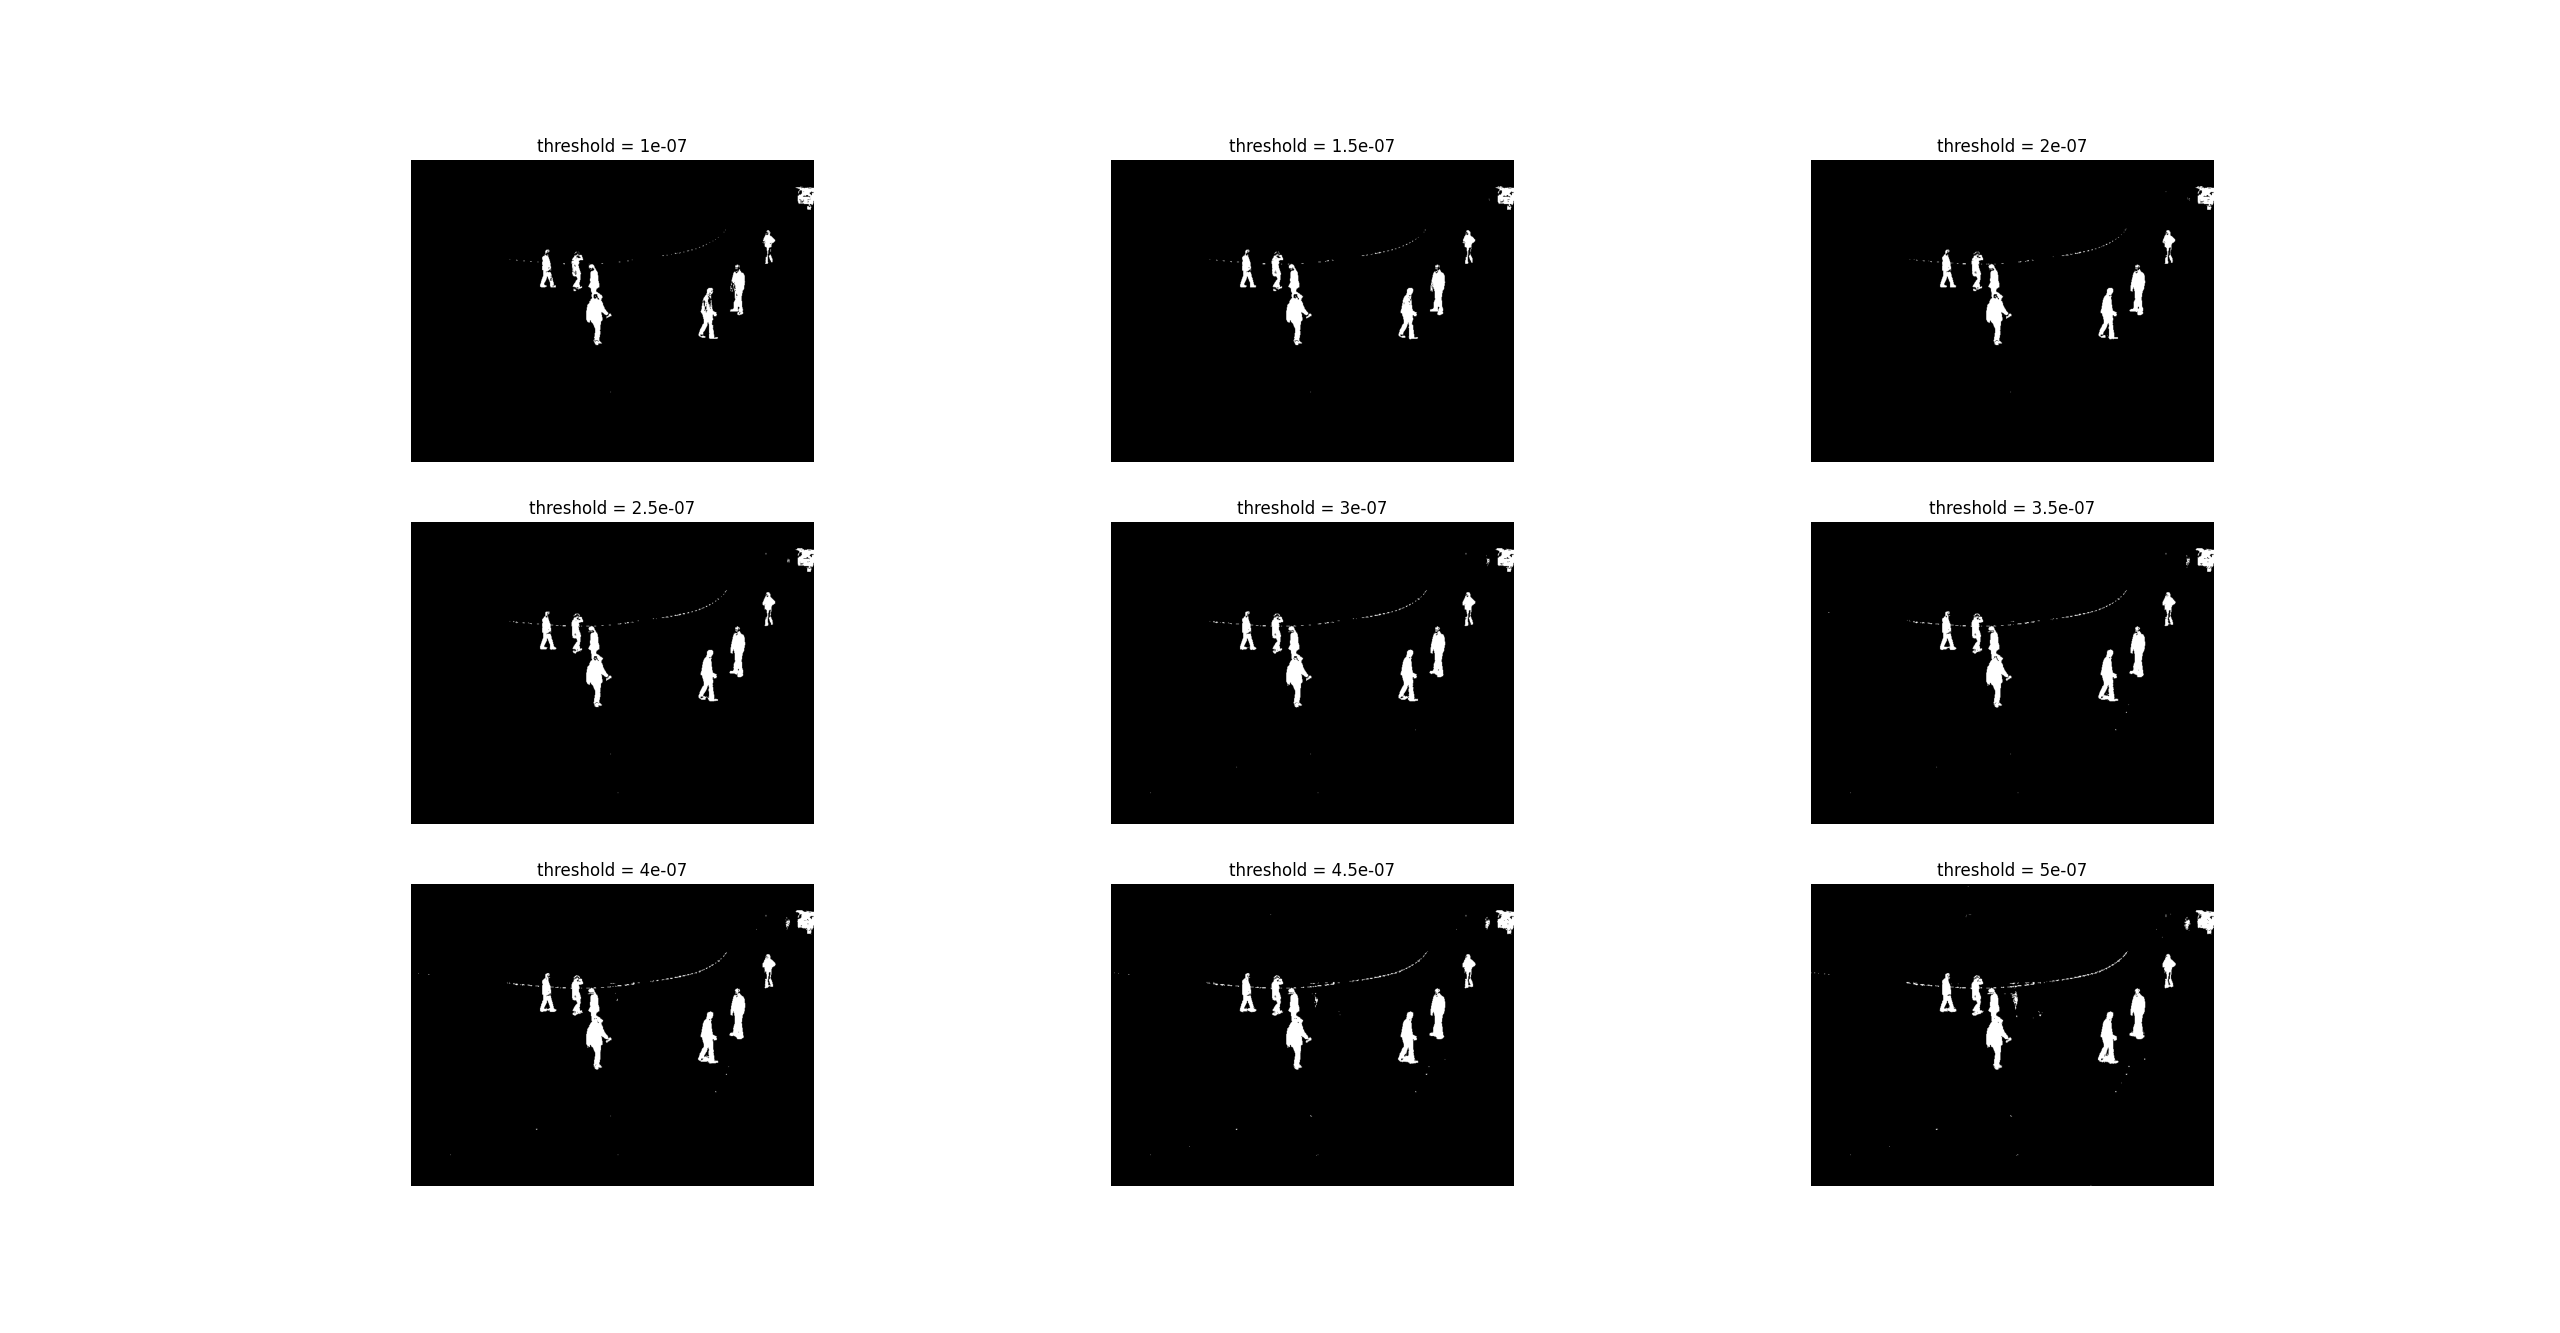
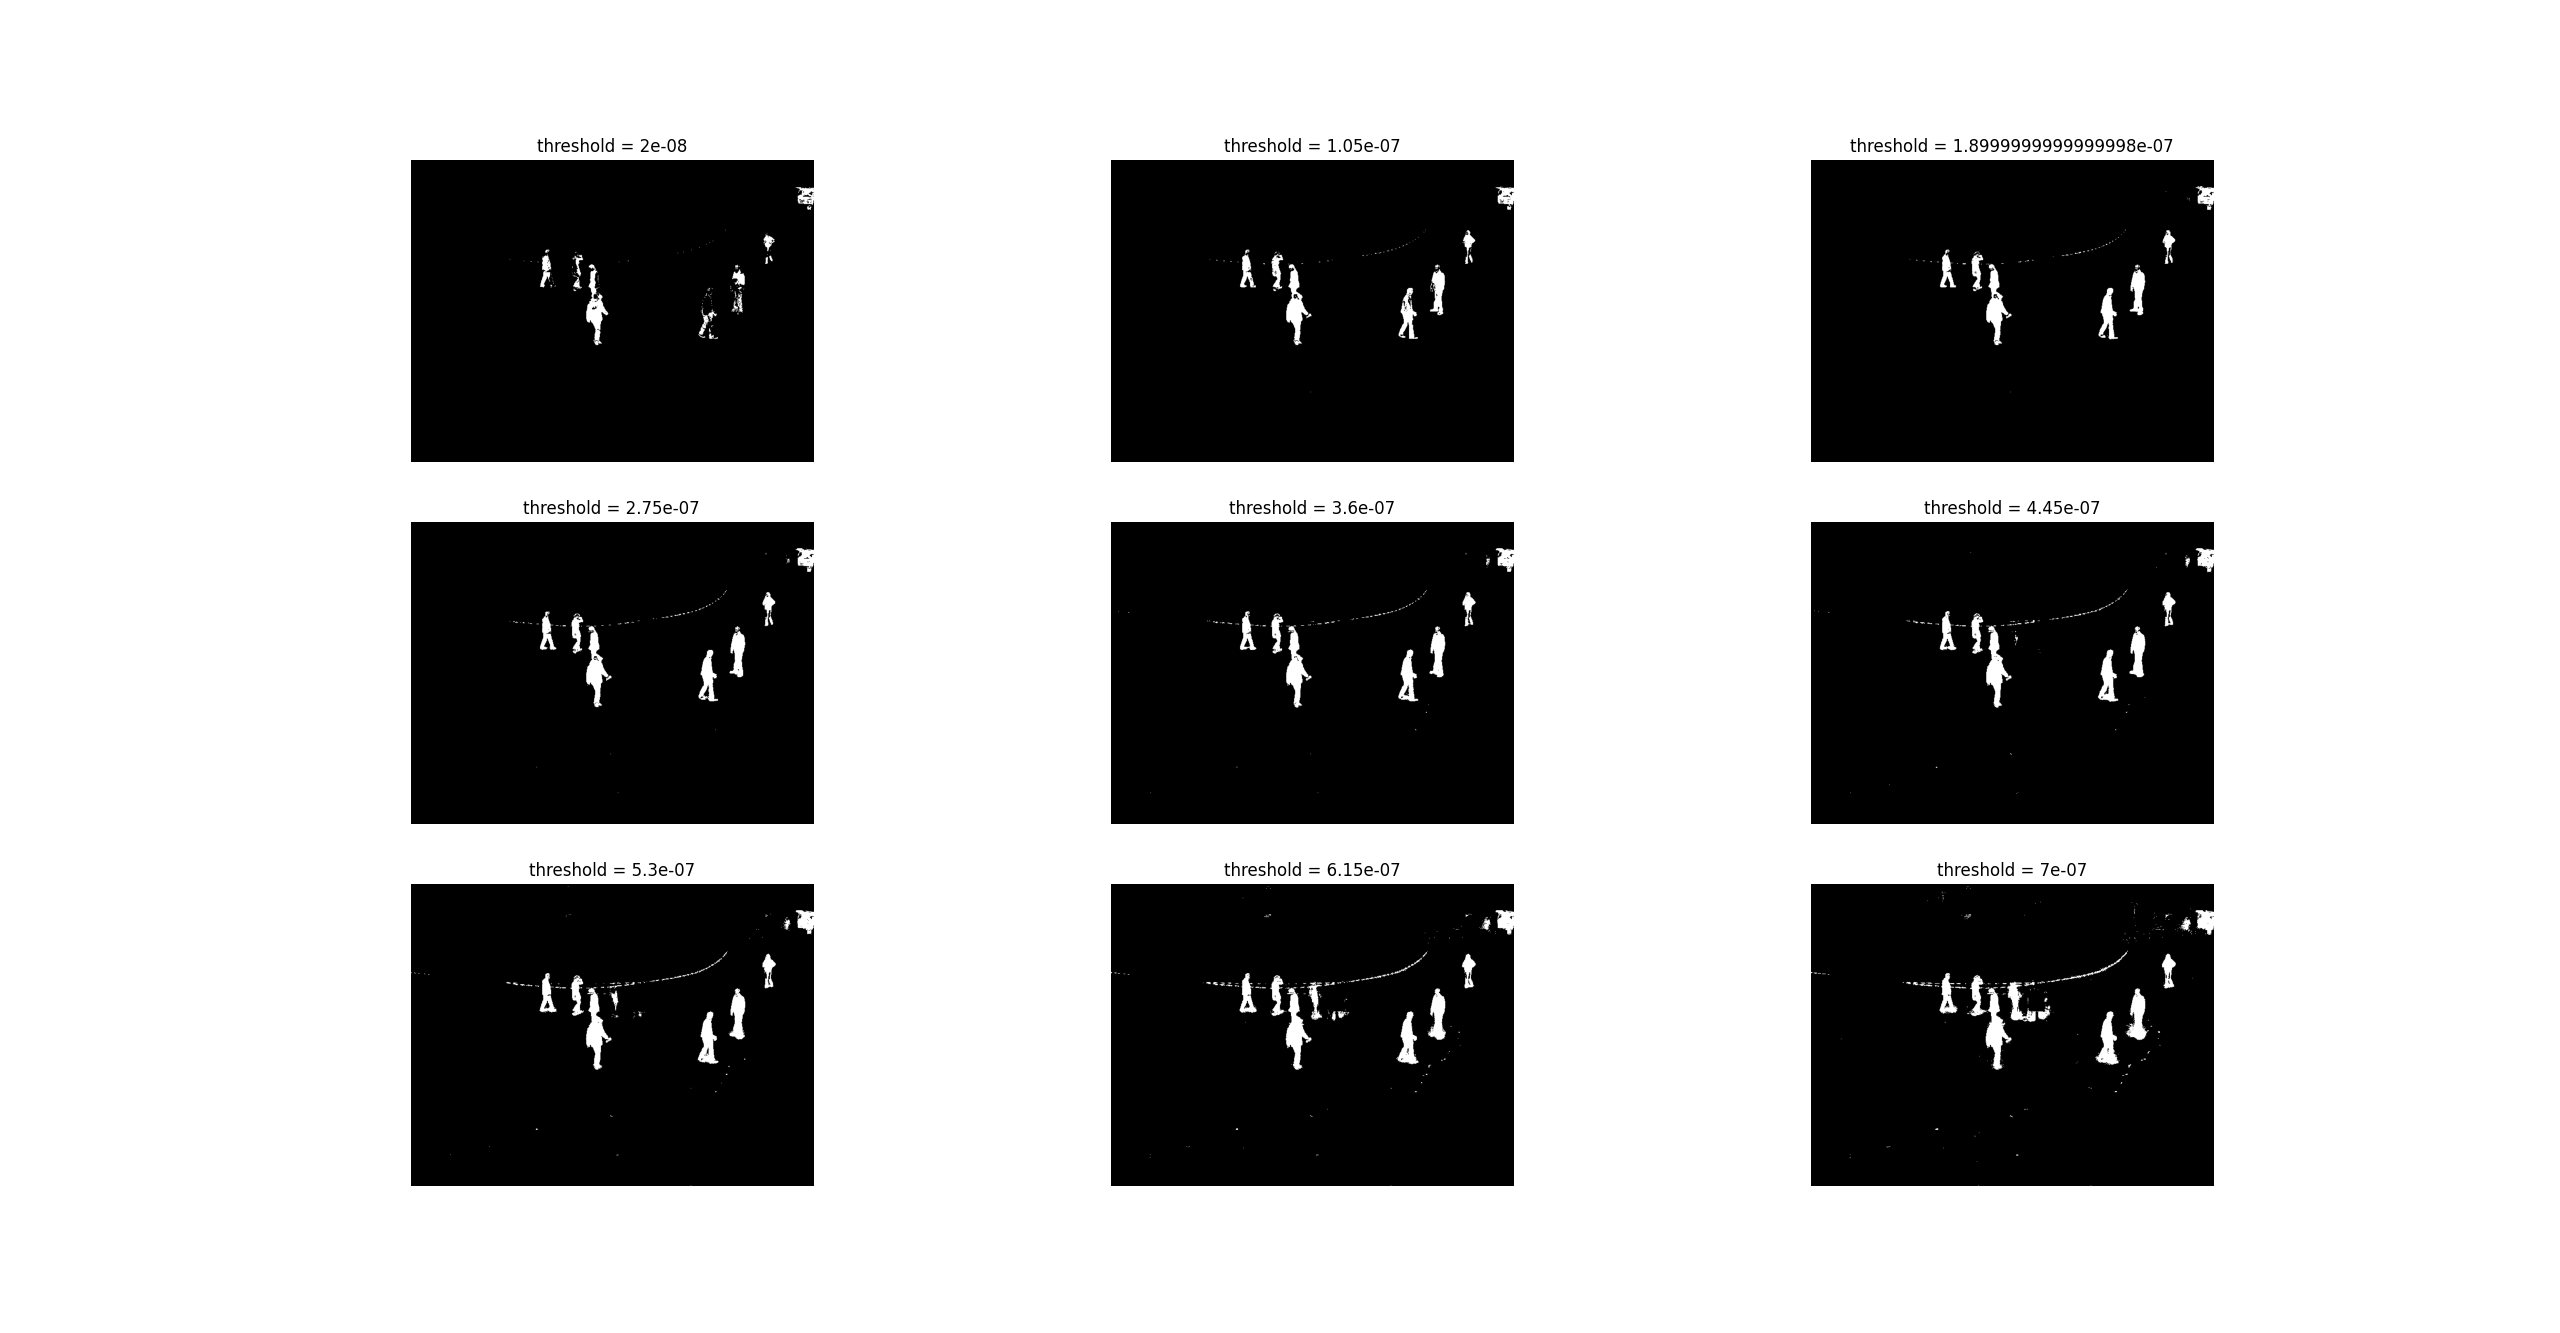
最后一次提交

diff --git a/KDE.py b/KDE.py
@@ -21,8 +21,12 @@ def load_image(dir_name):
     images_total = len(images_name)         # 获取图片总数目
 
     ''' 此处切换数据的尺寸(不同数据集有不同的尺寸) '''
-    # images = np.empty((576, 768, 3, images_total))      # 创建空数组，用于储存图像信息
-    images = np.empty((540, 960, 3, images_total))      # 创建空数组，用于储存图像信息
+    if train_dir[2] == '2':
+        images = np.empty((576, 768, 3, images_total))      # 创建空数组，用于储存图像信息
+        print("2023数据集")
+    else:
+        images = np.empty((540, 960, 3, images_total))      # 创建空数组，用于储存图像信息
+        print("mydata数据集")
 
     for i, img_name in enumerate(images_name):
         """
@@ -139,8 +143,8 @@ for i, h in enumerate(h_list):
         并将其二值化得到g_ij
     """
     ''' 此处可选择使用ep核或者三角核 '''
-    f_ij[:, :, i] = epanechnikov_kde(train_data, test_data, h)
-    # f_ij[:, :, i] = triangular_kde(train_data, test_data, h)
+    # f_ij[:, :, i] = epanechnikov_kde(train_data, test_data, h)
+    f_ij[:, :, i] = triangular_kde(train_data, test_data, h)
 
     ''' 固定一个h，观察不同阈值下的二值图像有什么不同（对应于第三张图） '''
     if h == 90:
